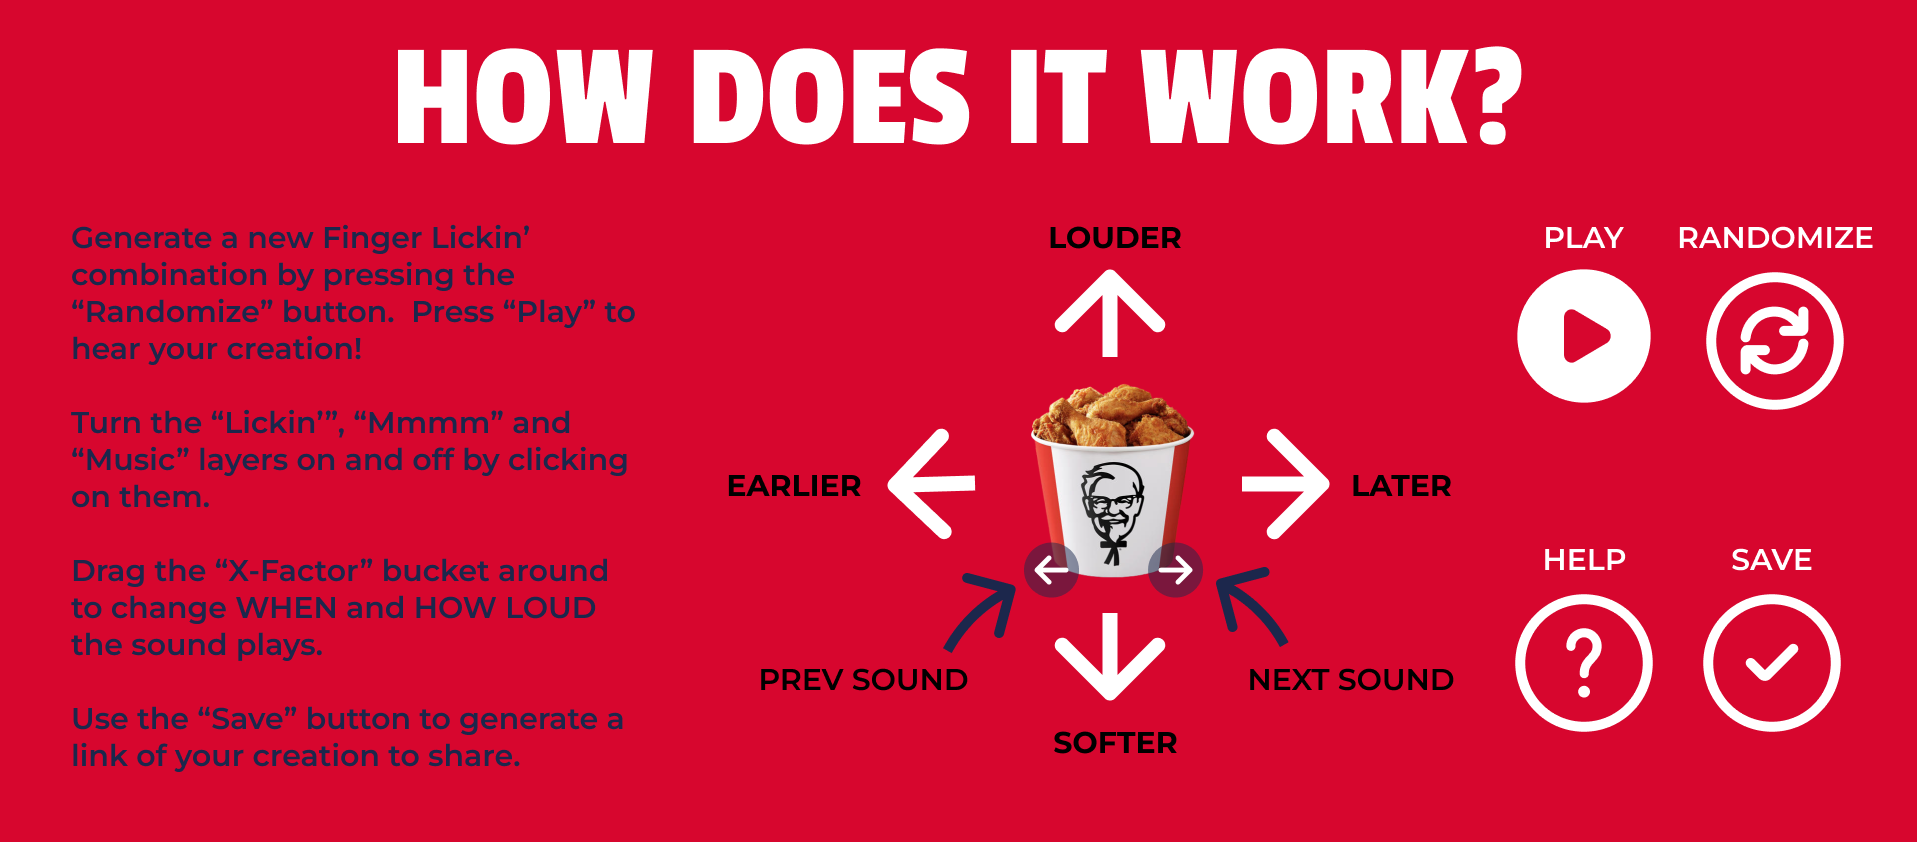
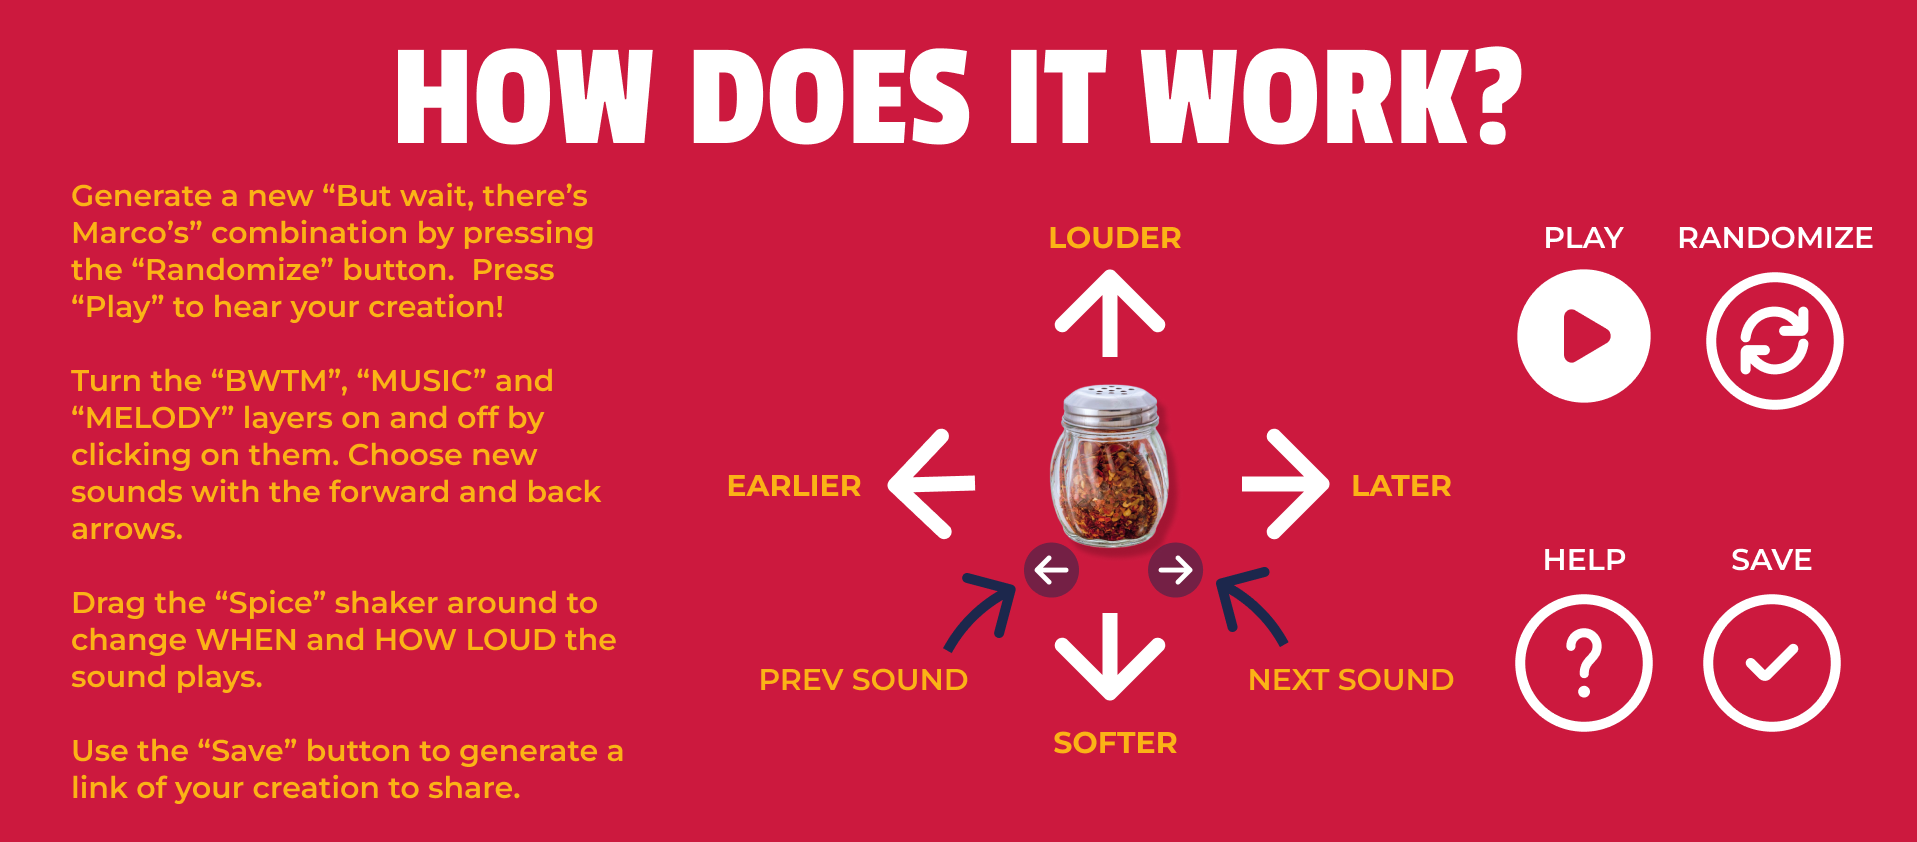
updating images and layout

diff --git a/main.js b/main.js
@@ -32,8 +32,8 @@ function preload() {
   helpImg = loadImage('img/help.png');
   saveImg = loadImage('img/save.png');
 
-  fasterImg = loadImage('img/faster.png');
-  slowerImg = loadImage('img/slower.png');
+  // fasterImg = loadImage('img/faster.png');
+  // slowerImg = loadImage('img/slower.png');
 
   indicatorImg = loadImage('img/play_bar_indicator.png');
 }
@@ -41,7 +41,7 @@ function preload() {
 function setup() {
     createCanvas(1920, 1080);
     
-    menuWidth = 550;
+    menuWidth = 570;
     sequenceWidth = 1920 - menuWidth - 16;
 
     sequenceHeight = 869 - 229 - 16;
@@ -64,17 +64,17 @@ function setup() {
     createNoteImgs(notes);
     createPart(notes);
 
-    let top = 100;
-    randomButton = new Button(randomImg, 32, 831 + top);
-    playButton = new Button(playImg, 174, 816 + top, stopImg);
-    saveButton = new Button(saveImg, 346, 831 + top);
+    let top = 904;
+    randomButton = new Button(randomImg, 40, 9 + top);
+    playButton = new Button(playImg, 188, top, stopImg);
+    saveButton = new Button(saveImg, 354, 9 + top);
 
     // prevGroupButton = new Button(prevGroupImg, 893, 948);
     // nextGroupButton = new Button(nextGroupImg, 1447, 948);
 
     // slider = new HScrollbar(100, 1029-8, 294, 16, 16, 0.1, 4.0, playbackRate);
 
-    helpButton = new Button(helpImg, 1831, 992);
+    helpButton = new Button(helpImg, 1772, 913);
 }
 
 function createNoteImgs(notes) {

diff --git a/config.js b/config.js
@@ -6,10 +6,10 @@ config.defaultPlaybackRate = 1.2;
 
 // seconds as min/max bounds, min default 0, max default config.duration
 config.voices = [
-    {image: 'Lickin.png', file: 'bss_kfc_lickinlab_lick_', count:26, time: 1.45, velocity: 0.8, y: 62},
-    {image: 'Mmmm.png', file: 'bss_kfc_lickinlab_mmm_', count:26, time: 1.45, velocity: 0.8, y: 413},  
-    {image: 'Music.png', file: 'bss_kfc_lickinlab_music_', count:26, time: 1.45, velocity: 0.8, y: 722}, 
-    {image: 'X-Factor.png', file: 'bss_kfc_lickinlab_xfactor_', count:26, min:[0.0,2.3], max:[0.6,3.2]}
+    {image: 'BWTM.png', file: 'bss_kfc_lickinlab_lick_', count:26, time: 1.45, velocity: 0.8, y: 62},
+    {image: 'Music.png', file: 'bss_kfc_lickinlab_mmm_', count:26, time: 1.45, velocity: 0.8, y: 413},  
+    {image: 'Melody.png', file: 'bss_kfc_lickinlab_music_', count:26, time: 1.45, velocity: 0.8, y: 722}, 
+    {image: 'Spice.png', file: 'bss_kfc_lickinlab_xfactor_', count:26, min:[0.0,2.3], max:[0.6,3.2]}
 ];
 
 config.voiceCount = config.voices.length;
